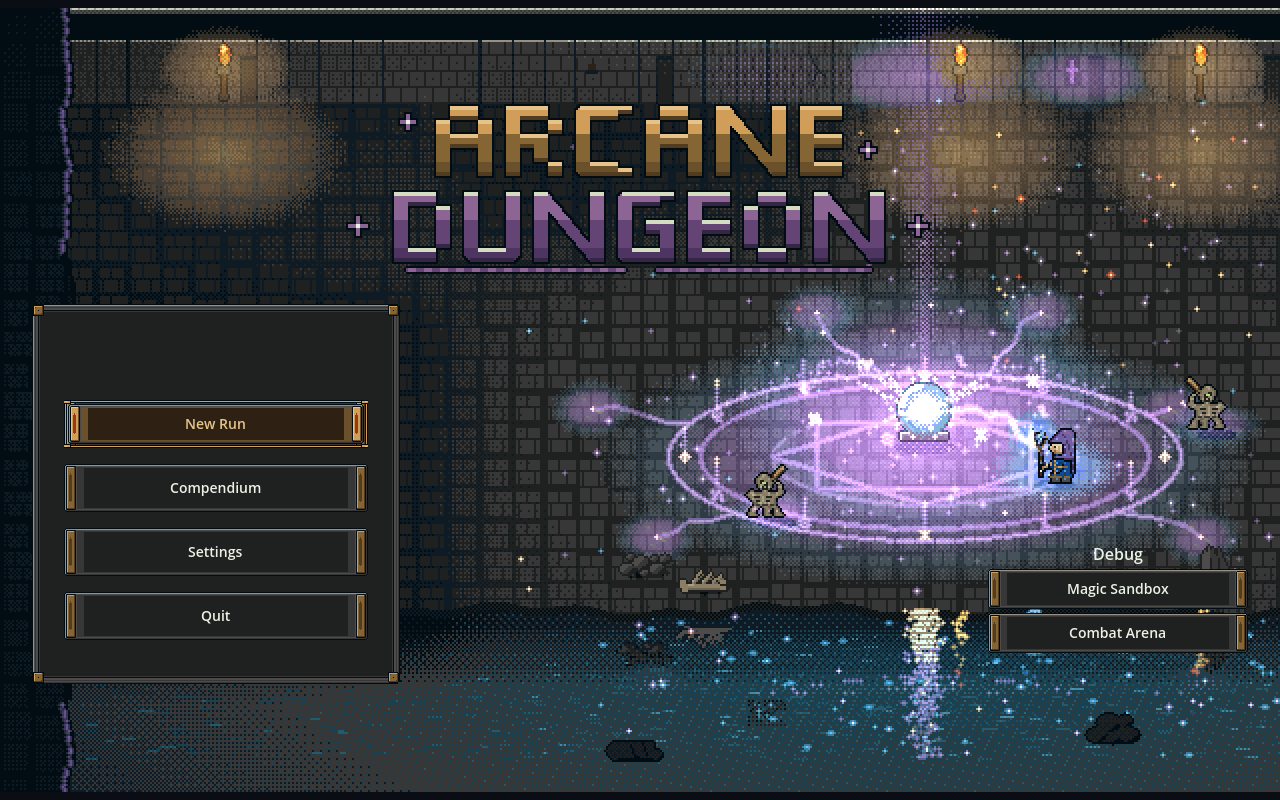
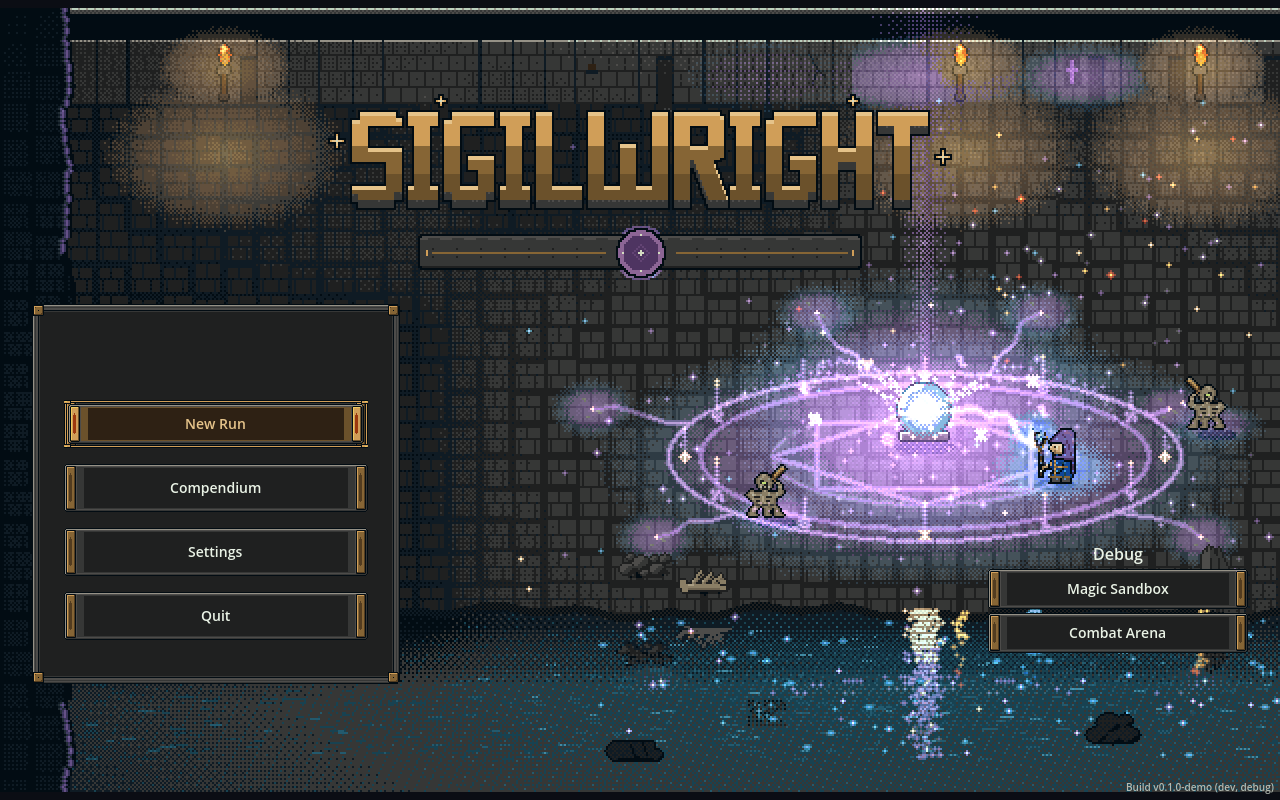
AD-164: import Sigilwright wordmark (AD-162) into title/main menu

Changed region(s): [[0.25, 0.125, 0.75, 0.3438], [0.875, 0.9688, 1.0, 1.0]]

diff --git a/assets/ui/README.md b/assets/ui/README.md
@@ -1,6 +1,6 @@
 # Skin A UI assets (AD-152)
 
-- Provenance: `ad_ui_kit*` = AD-095 kit (118 sprites); `layouts/` = AD-096 layout JSON as re-rendered by AD-159; `title/` = AD-098 title illustration (ruins set, parallax layers); `title/ad_key_logo.png` = AD-077 logo. Mock PNGs live in `docs/ui/matrix/mocks/`.
+- Provenance: `ad_ui_kit*` = AD-095 kit (118 sprites); `layouts/` = AD-096 layout JSON as re-rendered by AD-159; `title/` = AD-098 title illustration (ruins set, parallax layers); `logo/` = AD-162 Sigilwright wordmark (game-art APPROVE FINAL): `ad_key_logo` 320x96 is used by the menu widget `logo`, its `_glow` is additive, and the `_title` and `_small` variants are imported but have no slot yet. Mock PNGs live in `docs/ui/matrix/mocks/`.
 - All are game-art APPROVE FINAL. Palette: `arcane_palette_v02`.
 - `*_glow.png` are additive (draw with additive blend over the base).
 - The pause layout still names `ad_ui_modal_backdrop_25`; code must use `ad_ui_modal_backdrop_50` (game-art note). `SkinA.SPRITE_REMAP` does this.

diff --git a/docs/ui/matrix/README.md b/docs/ui/matrix/README.md
@@ -102,3 +102,8 @@ Known deviations:
 - Reward and merchant extras icons fall back to the MVP atlas when the AD-123 atlas lacks an icon.
 
 Review: game-design and game-art review pending.
+
+## AD-164
+
+Sigilwright wordmark (AD-162) imported into the main menu `logo` widget (`assets/ui/logo/`), with an additive `LogoGlow`.
+Command: `bash tools/ui_matrix.sh --godot /usr/local/bin/godot --states title` (2026-11-07). Result: 13 shots, 0 failed. The 1280x720 logo area (x320-960, y48-240) matches the AD-163 2x menu mock (letters, slab, sigil; no old-logo pixels). Menu mocks were replaced with the AD-163 FINAL re-renders.
